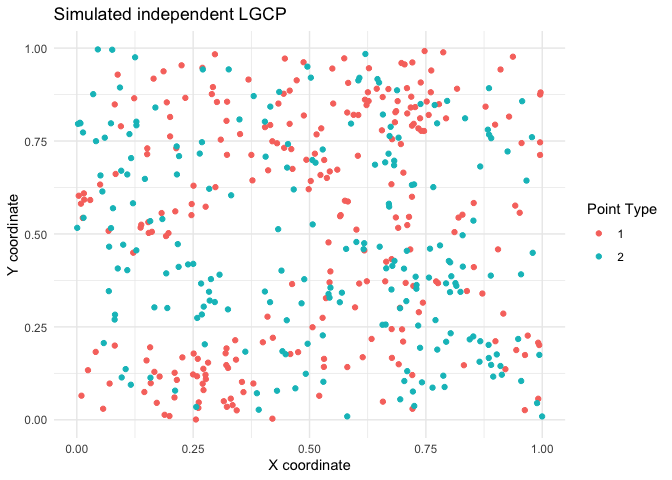
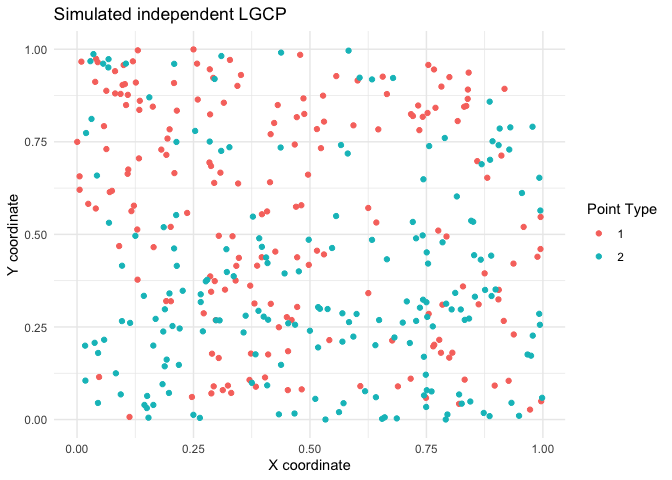
added vignettes

diff --git a/README.md b/README.md
@@ -20,7 +20,7 @@ pak::pak("asmita112358/spatbiome")
 #>  
 #> → Package library at '/Library/Frameworks/R.framework/Versions/4.6/Resources/library'.
 #> ℹ No downloads are needed
-#> ✔ 1 pkg + 40 deps: kept 40 [4.3s]
+#> ✔ 1 pkg + 40 deps: kept 40 [4.2s]
 library(spatbiome)
 ```
 
@@ -93,25 +93,25 @@ ggplot(plot_X, aes(x = x, y = y, color = marks)) +
   theme_minimal()
 ```
 
-<img src="man/figures/README-unnamed-chunk-5-1.png" alt="" width="100%" />
+<img src="man/figures/README-unnamed-chunk-5-1.png" alt="" width="70%" />
 
 ``` r
 res <- ARShift(data = X, i = "1", j = "2", n_perm = 499, workers = 5, type = "hom")
 res
 #> $p
-#> [1] 0.518
+#> [1] 0.764
 #> 
 #> $K
-#>  [1] 0.000000e+00 3.702607e-05 1.295912e-04 2.406694e-04 3.948234e-04
-#>  [6] 7.280580e-04 9.872405e-04 1.283449e-03 1.686349e-03 2.014552e-03
-#> [11] 2.580149e-03 3.171922e-03 3.846875e-03 4.525279e-03 5.435653e-03
-#> [16] 6.266032e-03 7.386533e-03 8.271505e-03 9.435031e-03 1.041306e-02
-#> [21] 1.165767e-02 1.297108e-02 1.443229e-02 1.628515e-02 1.758996e-02
-#> [26] 1.905852e-02 2.018625e-02 2.154306e-02 2.306018e-02 2.487371e-02
-#> [31] 2.664522e-02 2.838744e-02 3.004947e-02 3.207292e-02 3.429941e-02
-#> [36] 3.613092e-02 3.794093e-02 4.025927e-02 4.247522e-02 4.464237e-02
-#> [41] 4.681722e-02 4.883006e-02 5.094687e-02 5.339222e-02 5.589468e-02
-#> [46] 5.851065e-02 6.136705e-02 6.432498e-02 6.668385e-02 6.963216e-02
+#>  [1] 0.000000e+00 2.829335e-05 8.488004e-05 2.829335e-04 4.977460e-04
+#>  [6] 7.240927e-04 1.054846e-03 1.352364e-03 1.833351e-03 2.288022e-03
+#> [11] 2.719890e-03 3.333585e-03 3.794787e-03 4.497280e-03 5.190479e-03
+#> [16] 5.892194e-03 6.767064e-03 7.779780e-03 8.551561e-03 9.393780e-03
+#> [21] 1.047453e-02 1.193514e-02 1.318313e-02 1.439533e-02 1.557807e-02
+#> [26] 1.653092e-02 1.795903e-02 1.904657e-02 2.053686e-02 2.214044e-02
+#> [31] 2.391906e-02 2.548134e-02 2.735324e-02 2.903961e-02 3.091004e-02
+#> [36] 3.282906e-02 3.465309e-02 3.649202e-02 3.869864e-02 4.093342e-02
+#> [41] 4.299097e-02 4.483886e-02 4.692194e-02 4.910274e-02 5.150021e-02
+#> [46] 5.375536e-02 5.554869e-02 5.767832e-02 6.035106e-02 6.312486e-02
 #> 
 #> $r
 #>  [1] 0.000000000 0.003061224 0.006122449 0.009183673 0.012244898 0.015306122
@@ -148,25 +148,25 @@ ggplot(plot_X, aes(x = x, y = y, color = marks)) +
   theme_minimal()
 ```
 
-<img src="man/figures/README-unnamed-chunk-7-1.png" alt="" width="100%" />
+<img src="man/figures/README-unnamed-chunk-7-1.png" alt="" width="70%" />
 
 ``` r
 res <- ARShift(data = X, i = "1", j = "2", n_perm = 499, workers = 5, type = "hom")
 res
 #> $p
-#> [1] 0.002
+#> [1] 0.008
 #> 
 #> $K
-#>  [1] 0.000000e+00 6.426322e-05 2.731187e-04 5.944348e-04 1.060343e-03
-#>  [6] 1.654778e-03 2.178408e-03 2.887907e-03 3.806873e-03 4.761770e-03
-#> [11] 5.673299e-03 6.792481e-03 7.901873e-03 9.467146e-03 1.117503e-02
-#> [16] 1.278648e-02 1.468525e-02 1.643385e-02 1.834201e-02 2.038201e-02
-#> [21] 2.248643e-02 2.449750e-02 2.665492e-02 2.887610e-02 3.156259e-02
-#> [26] 3.427074e-02 3.691579e-02 3.986143e-02 4.290812e-02 4.556909e-02
-#> [31] 4.840722e-02 5.152933e-02 5.479912e-02 5.797748e-02 6.090388e-02
-#> [36] 6.405428e-02 6.740900e-02 7.049741e-02 7.381396e-02 7.680292e-02
-#> [41] 7.999821e-02 8.342107e-02 8.716612e-02 9.049001e-02 9.401770e-02
-#> [46] 9.756456e-02 1.013892e-01 1.051079e-01 1.085411e-01 1.124066e-01
+#>  [1] 0.000000e+00 2.097755e-05 1.887980e-04 3.146633e-04 5.663940e-04
+#>  [6] 1.032365e-03 1.649023e-03 2.425192e-03 3.080502e-03 4.074369e-03
+#> [11] 5.343922e-03 6.546276e-03 7.363707e-03 8.369406e-03 9.601120e-03
+#> [16] 1.104050e-02 1.245895e-02 1.437307e-02 1.658198e-02 1.852601e-02
+#> [21] 2.068220e-02 2.318496e-02 2.582038e-02 2.828967e-02 3.094387e-02
+#> [26] 3.340607e-02 3.577716e-02 3.828891e-02 4.097915e-02 4.365514e-02
+#> [31] 4.683477e-02 4.974718e-02 5.284573e-02 5.595556e-02 5.852402e-02
+#> [36] 6.100328e-02 6.392414e-02 6.701225e-02 6.966800e-02 7.286243e-02
+#> [41] 7.613812e-02 7.907558e-02 8.232717e-02 8.511120e-02 8.834164e-02
+#> [46] 9.173156e-02 9.505769e-02 9.791920e-02 1.009262e-01 1.043200e-01
 #> 
 #> $r
 #>  [1] 0.000000000 0.003061224 0.006122449 0.009183673 0.012244898 0.015306122
